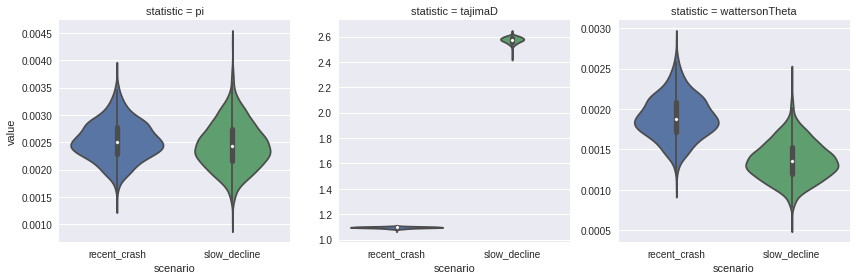
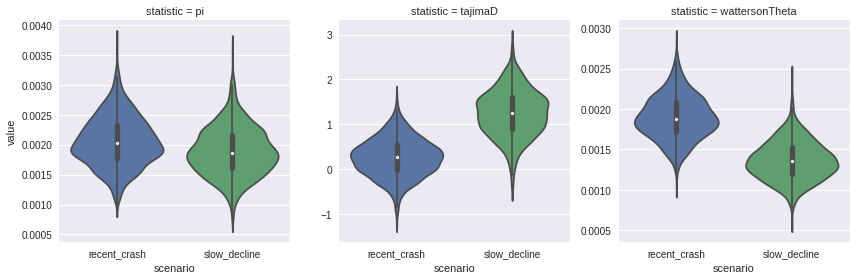
Fixed bug!

diff --git a/_posts/2017-08-23-power-of-correct-tools.md b/_posts/2017-08-23-power-of-correct-tools.md
@@ -26,20 +26,15 @@ import allel
 import msprime
 import seaborn as sns
 import pandas as pd
+import numpy as np
 %matplotlib inline
 {% endhighlight %}
 
 
 {% highlight python %}
-msprime.__version__, allel.__version__
+assert msprime.__version__ == "0.4.0"
+assert allel.__version__ == "1.1.9"
 {% endhighlight %}
-
-
-
-
-    ('0.4.0', '1.1.9')
-
-
 
 ### Overview
 
@@ -169,12 +164,18 @@ def growth_dem_model(pop_cfg, dem_hist, length=1e7, mu=3.5e-9, rrate=1e-8, seed=
     # print the number of mutations in the trees using an internal method
     print("Simulated ", tree_sequence.get_num_mutations(), "mutations")
     
-    # another method returns a generator for these variants and we instantiate as a list
-    _gt = [variant.genotypes for variant in tree_sequence.variants()]
+    # thanks to Jerome for the code here.
+    # The best way to do this is to preallocate a numpy array 
+    # (or even better the allel.HaplotypeArray), and fill it incrementally: 
+    V = np.zeros((tree_sequence.get_num_mutations(), tree_sequence.get_sample_size()),
+                 dtype=np.int8)
+
+    for variant in tree_sequence.variants():
+        V[variant.index] = variant.genotypes 
     
-    # create a haplotype array in allel from a list of numpy arrays of 0/1s
+    # create a haplotype array in allel from numpy arrays of 0s/1s
     # as the dataset is reasonably small there is no need to use the chunking functionality of allel
-    gt = allel.HaplotypeArray(_gt)
+    gt = allel.HaplotypeArray(V)
     
     # scikit-allel expects integer values here rather than infinite sites model of msprime.
     pos = allel.SortedIndex([int(variant.position) for variant in tree_sequence.variants()])
@@ -199,8 +200,8 @@ simulations = {"recent_crash": growth_dem_model(pop_config, history_p1, length=c
 
     Simulated  98234 mutations
     Simulated  70472 mutations
-    CPU times: user 3min, sys: 60 ms, total: 3min
-    Wall time: 3min
+    CPU times: user 1min 54s, sys: 167 ms, total: 1min 54s
+    Wall time: 1min 54s
 
 
 Initialize our data frame: create a multi-index from the combinations of the things we are interested in, and tell it how many rows to expect.
@@ -238,8 +239,8 @@ for key, (haps, pos) in simulations.items():
     df[key, "wattersonTheta"] = watt
 {% endhighlight %}
 
-    CPU times: user 0 ns, sys: 0 ns, total: 0 ns
-    Wall time: 7.63 µs
+    CPU times: user 2 µs, sys: 1e+03 ns, total: 3 µs
+    Wall time: 4.05 µs
 
 
 
@@ -277,47 +278,47 @@ HTML(df.head().to_html(float_format='%.4f'))
   <tbody>
     <tr>
       <th>0</th>
-      <td>0.0026</td>
-      <td>1.0976</td>
       <td>0.0019</td>
+      <td>-0.0356</td>
       <td>0.0019</td>
-      <td>2.5442</td>
+      <td>0.0016</td>
+      <td>1.5078</td>
       <td>0.0011</td>
     </tr>
     <tr>
       <th>1</th>
-      <td>0.0023</td>
-      <td>1.0926</td>
+      <td>0.0018</td>
+      <td>0.2704</td>
       <td>0.0017</td>
-      <td>0.0027</td>
-      <td>2.5882</td>
+      <td>0.0022</td>
+      <td>1.6559</td>
       <td>0.0015</td>
     </tr>
     <tr>
       <th>2</th>
-      <td>0.0023</td>
-      <td>1.0936</td>
+      <td>0.0019</td>
+      <td>0.3512</td>
       <td>0.0017</td>
-      <td>0.0030</td>
-      <td>2.6009</td>
+      <td>0.0023</td>
+      <td>1.3548</td>
       <td>0.0017</td>
     </tr>
     <tr>
       <th>3</th>
-      <td>0.0023</td>
-      <td>1.0940</td>
+      <td>0.0020</td>
+      <td>0.5189</td>
       <td>0.0018</td>
-      <td>0.0023</td>
-      <td>2.5704</td>
+      <td>0.0019</td>
+      <td>1.5628</td>
       <td>0.0013</td>
     </tr>
     <tr>
       <th>4</th>
-      <td>0.0022</td>
-      <td>1.0915</td>
+      <td>0.0013</td>
+      <td>-0.7073</td>
       <td>0.0017</td>
-      <td>0.0020</td>
-      <td>2.5470</td>
+      <td>0.0018</td>
+      <td>1.9320</td>
       <td>0.0011</td>
     </tr>
   </tbody>
